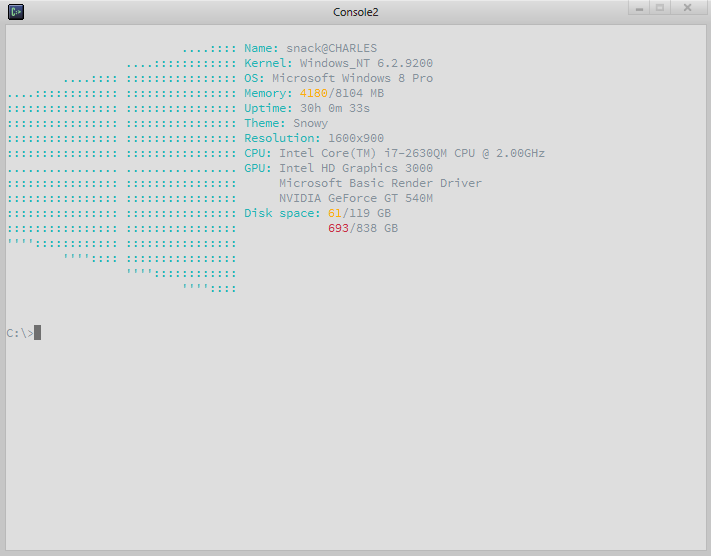
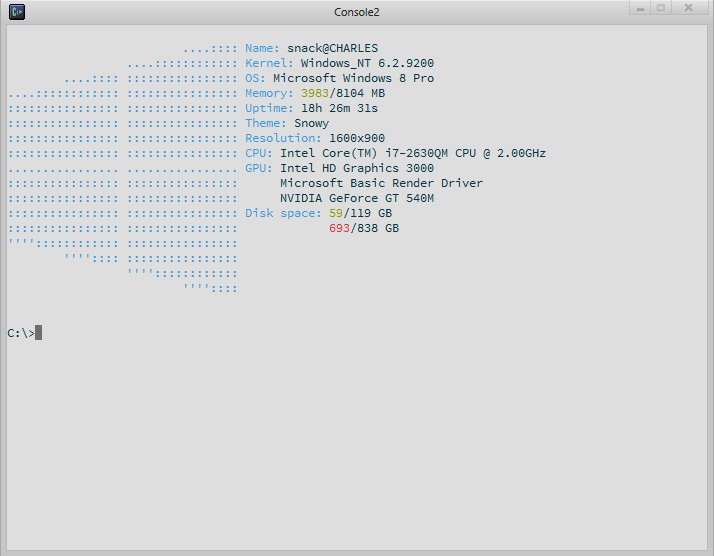
New colors

diff --git a/index.html b/index.html
@@ -45,7 +45,7 @@
 				<h2 id="userchrome">UserChrome</h2>
 				Custom userChrome.css, only used in firefox and shouldn't require anything.<br />
 				Still very buggy, so I'm still working on it daily.<br />
-				Note; It's transparent so it takes your default window color (which is why it's brown for me).
+				Note; It's transparent so it takes your default window color (which is why it's grey for me).
 				<a href="img/userchrome.png"><img src="img/userchrome.png"/></a>
 				<div class="links">
 					<a href="https://github.com/Snacksnack/dotfiles/tree/master/dotfiles/CSS">Repository</a>
